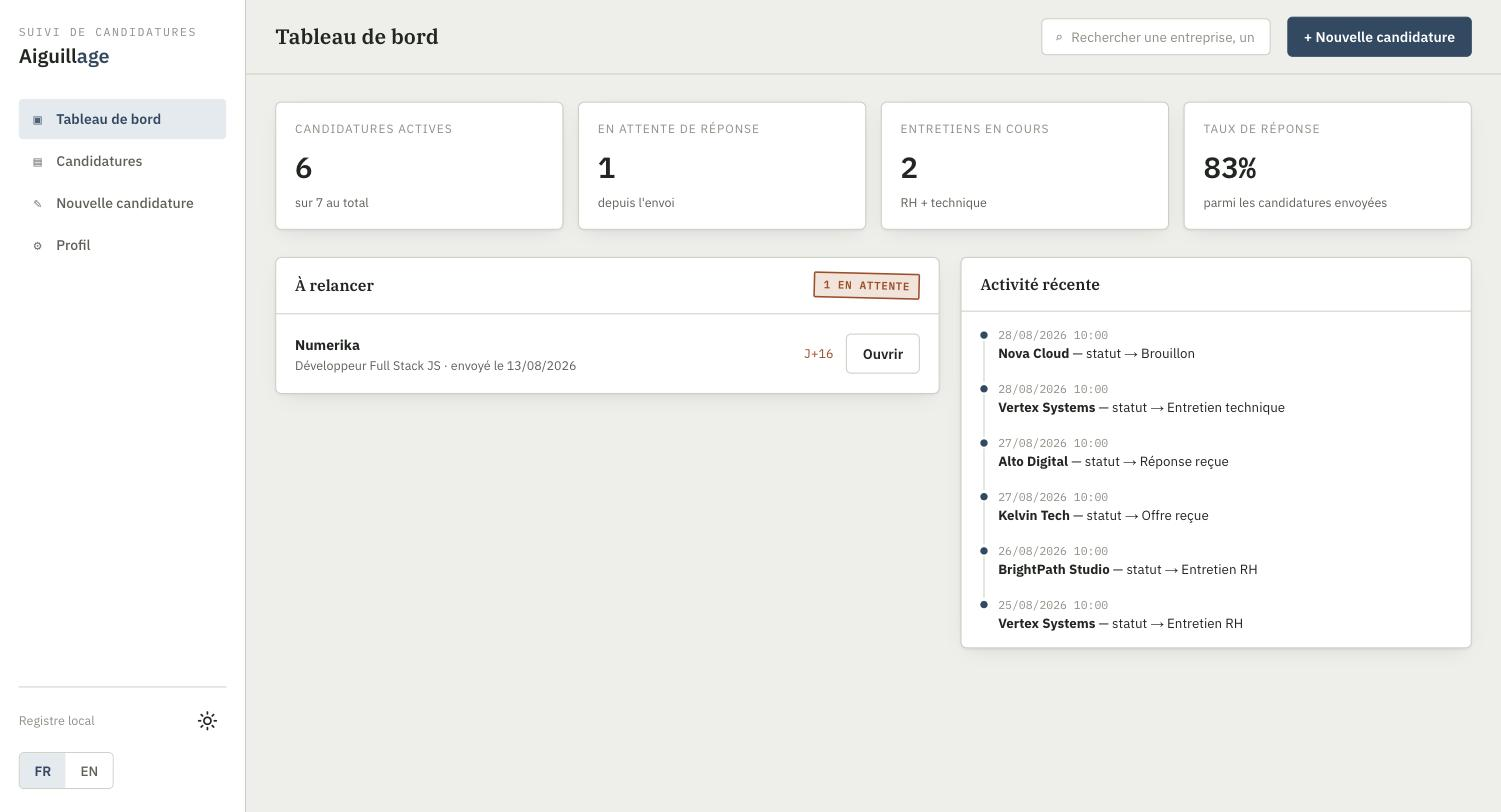
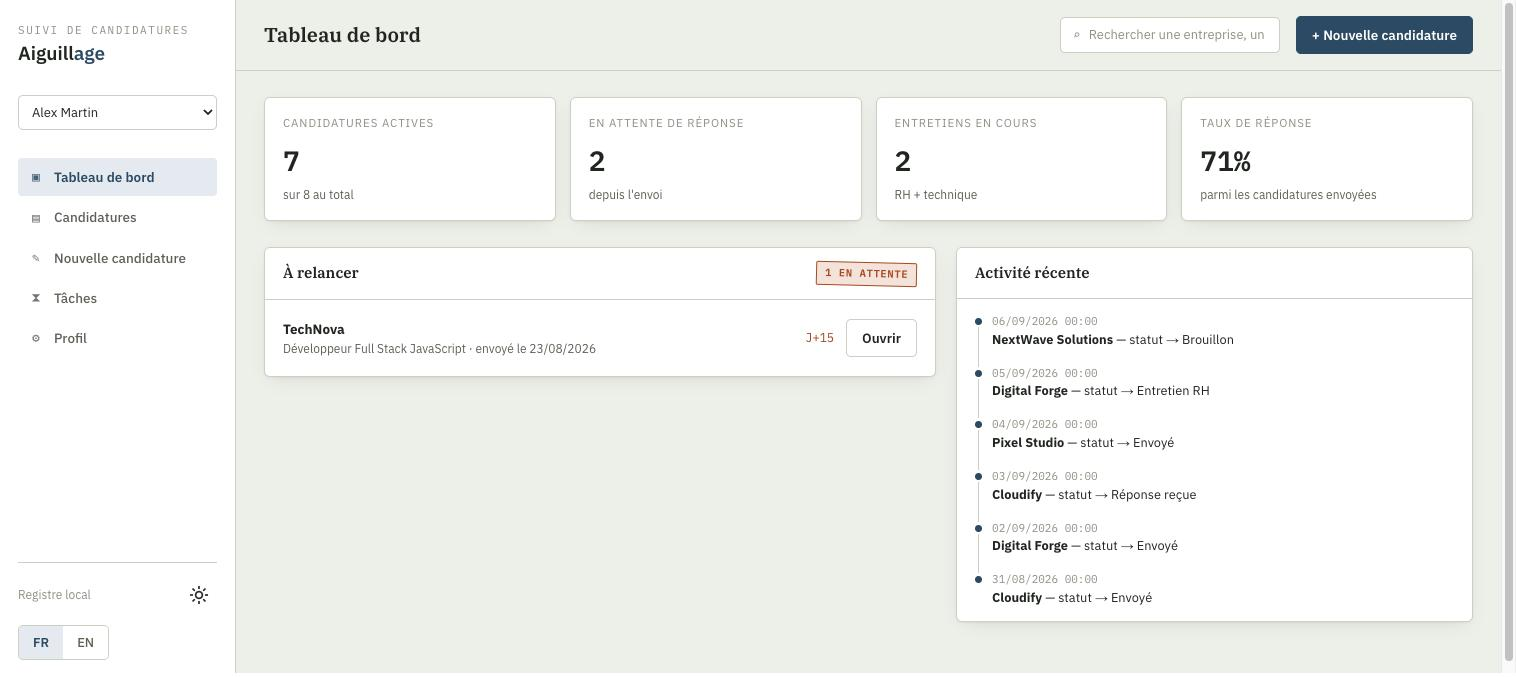
Update README and screenshots for the current UI
Documentation only, no version bump. The screenshots and the
single-user framing, feature list, and setup steps hadn't caught up
with background tasks, multi-profile, and the responsive layout.

diff --git a/README.md b/README.md
@@ -44,8 +44,9 @@ profile.
   response rate, follow-ups due, recent activity.
 - Kanban view (drag a card to another column to change its status) and list
   view.
-- Detail panel per application: status, generated documents, status-change
-  history, free-form notes.
+- Detail panel per application: status, the original job posting (handy for
+  interview prep), generated documents, status-change history, free-form
+  notes.
 - CLI tracking (`tracker/tracker_cli.py`) alongside the dashboard.
 - French/English interface switch, also used as the generation language for
   the CV and cover letter — with an option to generate both languages at
